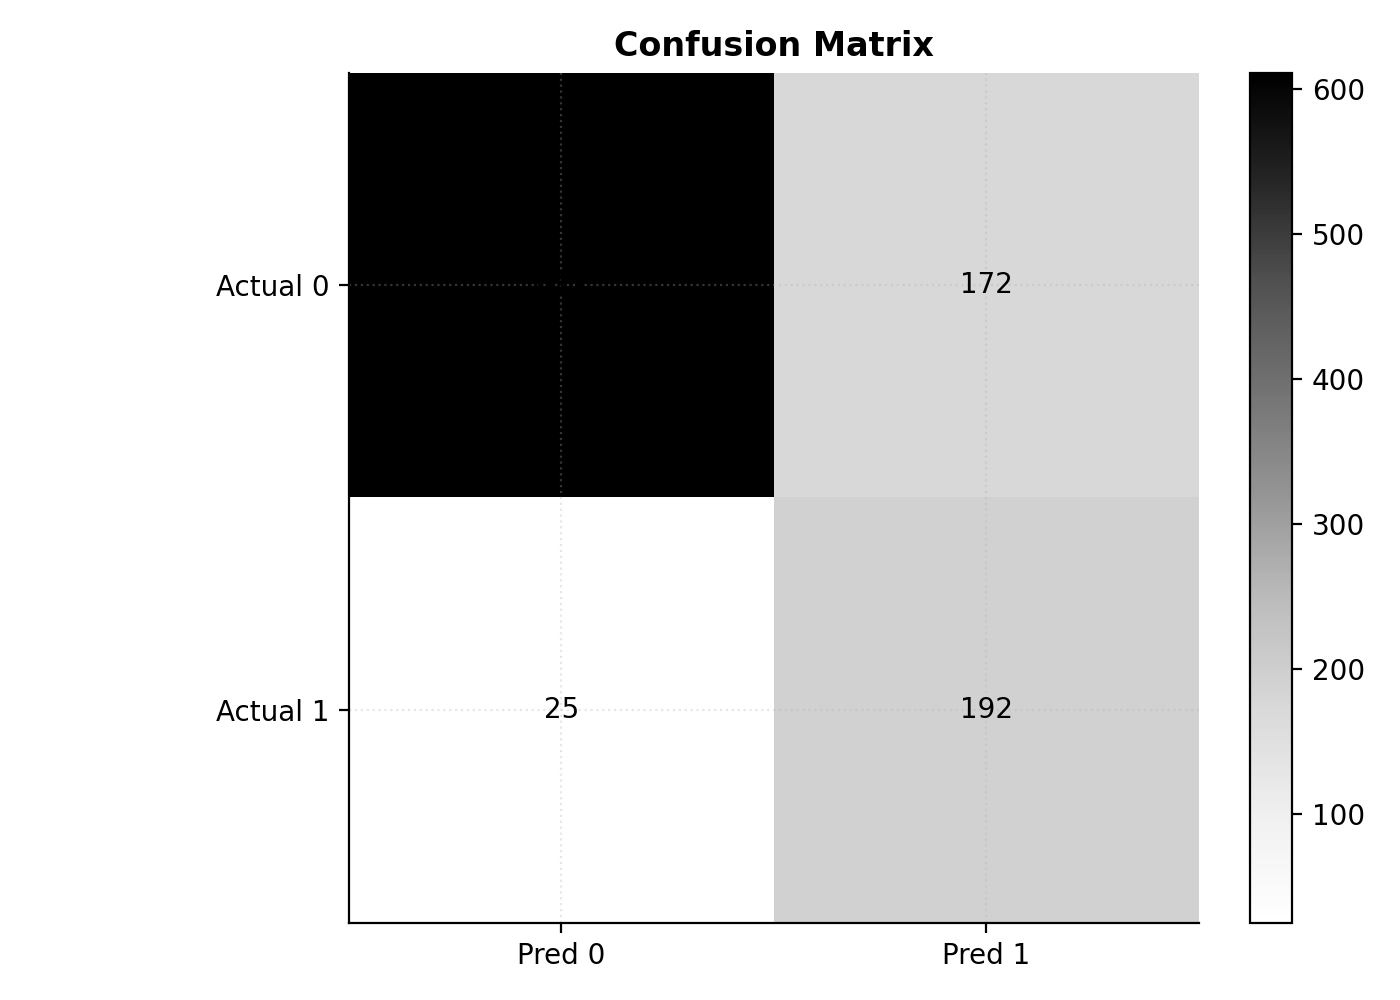
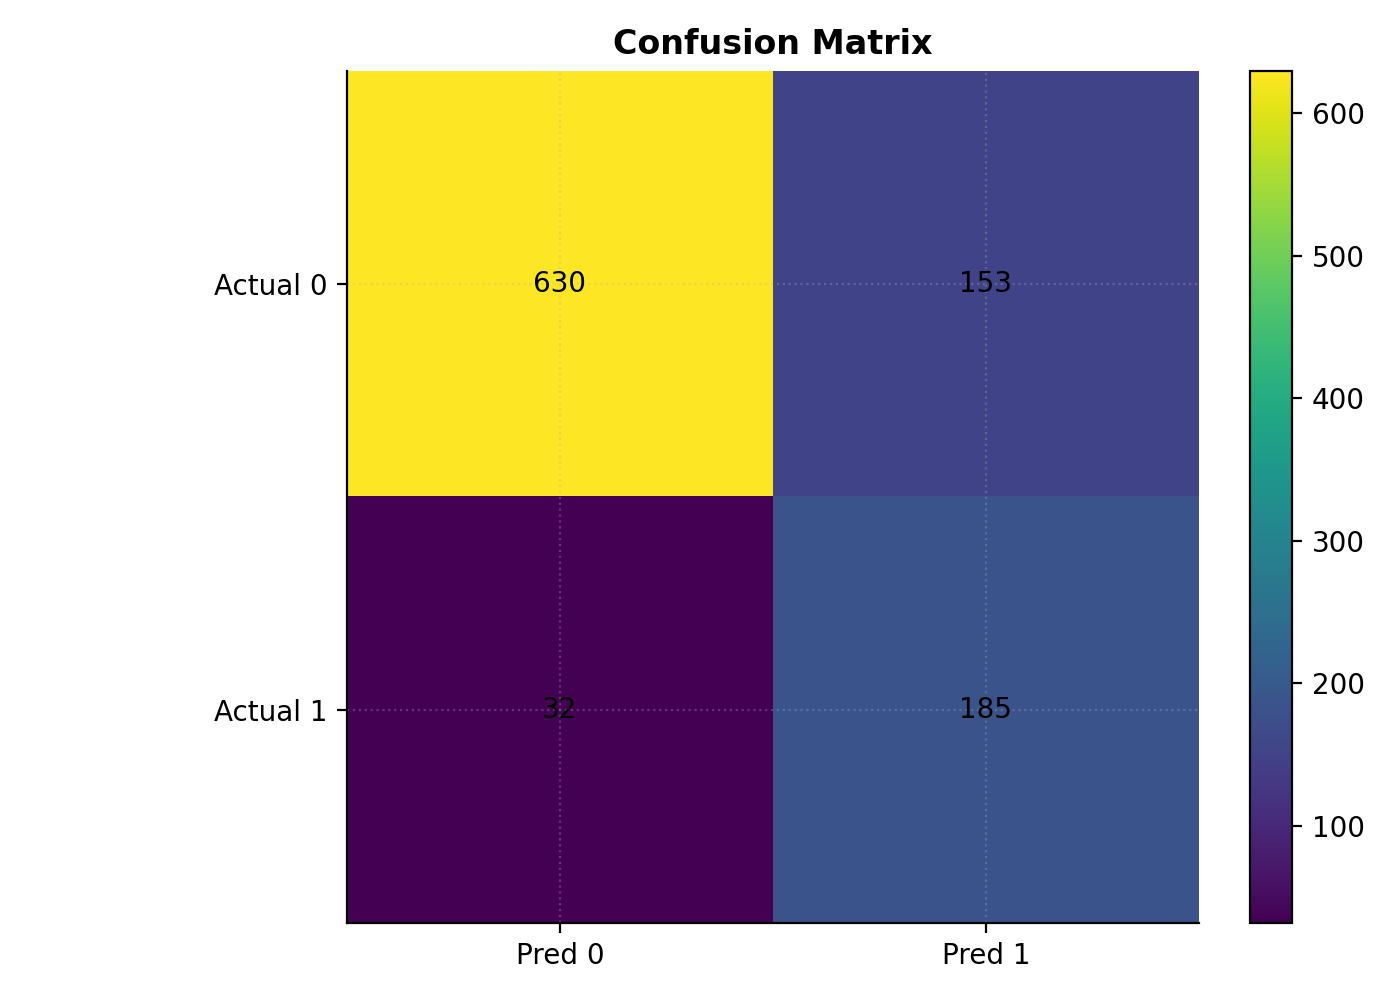
Updated confusion matrix visualization so that there is not black text on a black background.

diff --git a/visualize_results.py b/visualize_results.py
@@ -128,7 +128,7 @@ def plot_confusion_matrix(y_true, y_pred, outdir):
     cm = confusion_matrix(y_true, y_pred)
     # Manual heatmap using imshow (no seaborn)
     plt.figure()
-    im = plt.imshow(cm, cmap="Greys")
+    im = plt.imshow(cm)
     plt.colorbar(im, fraction=0.046, pad=0.04)
     plt.xticks([0, 1], ["Pred 0", "Pred 1"])
     plt.yticks([0, 1], ["Actual 0", "Actual 1"])
